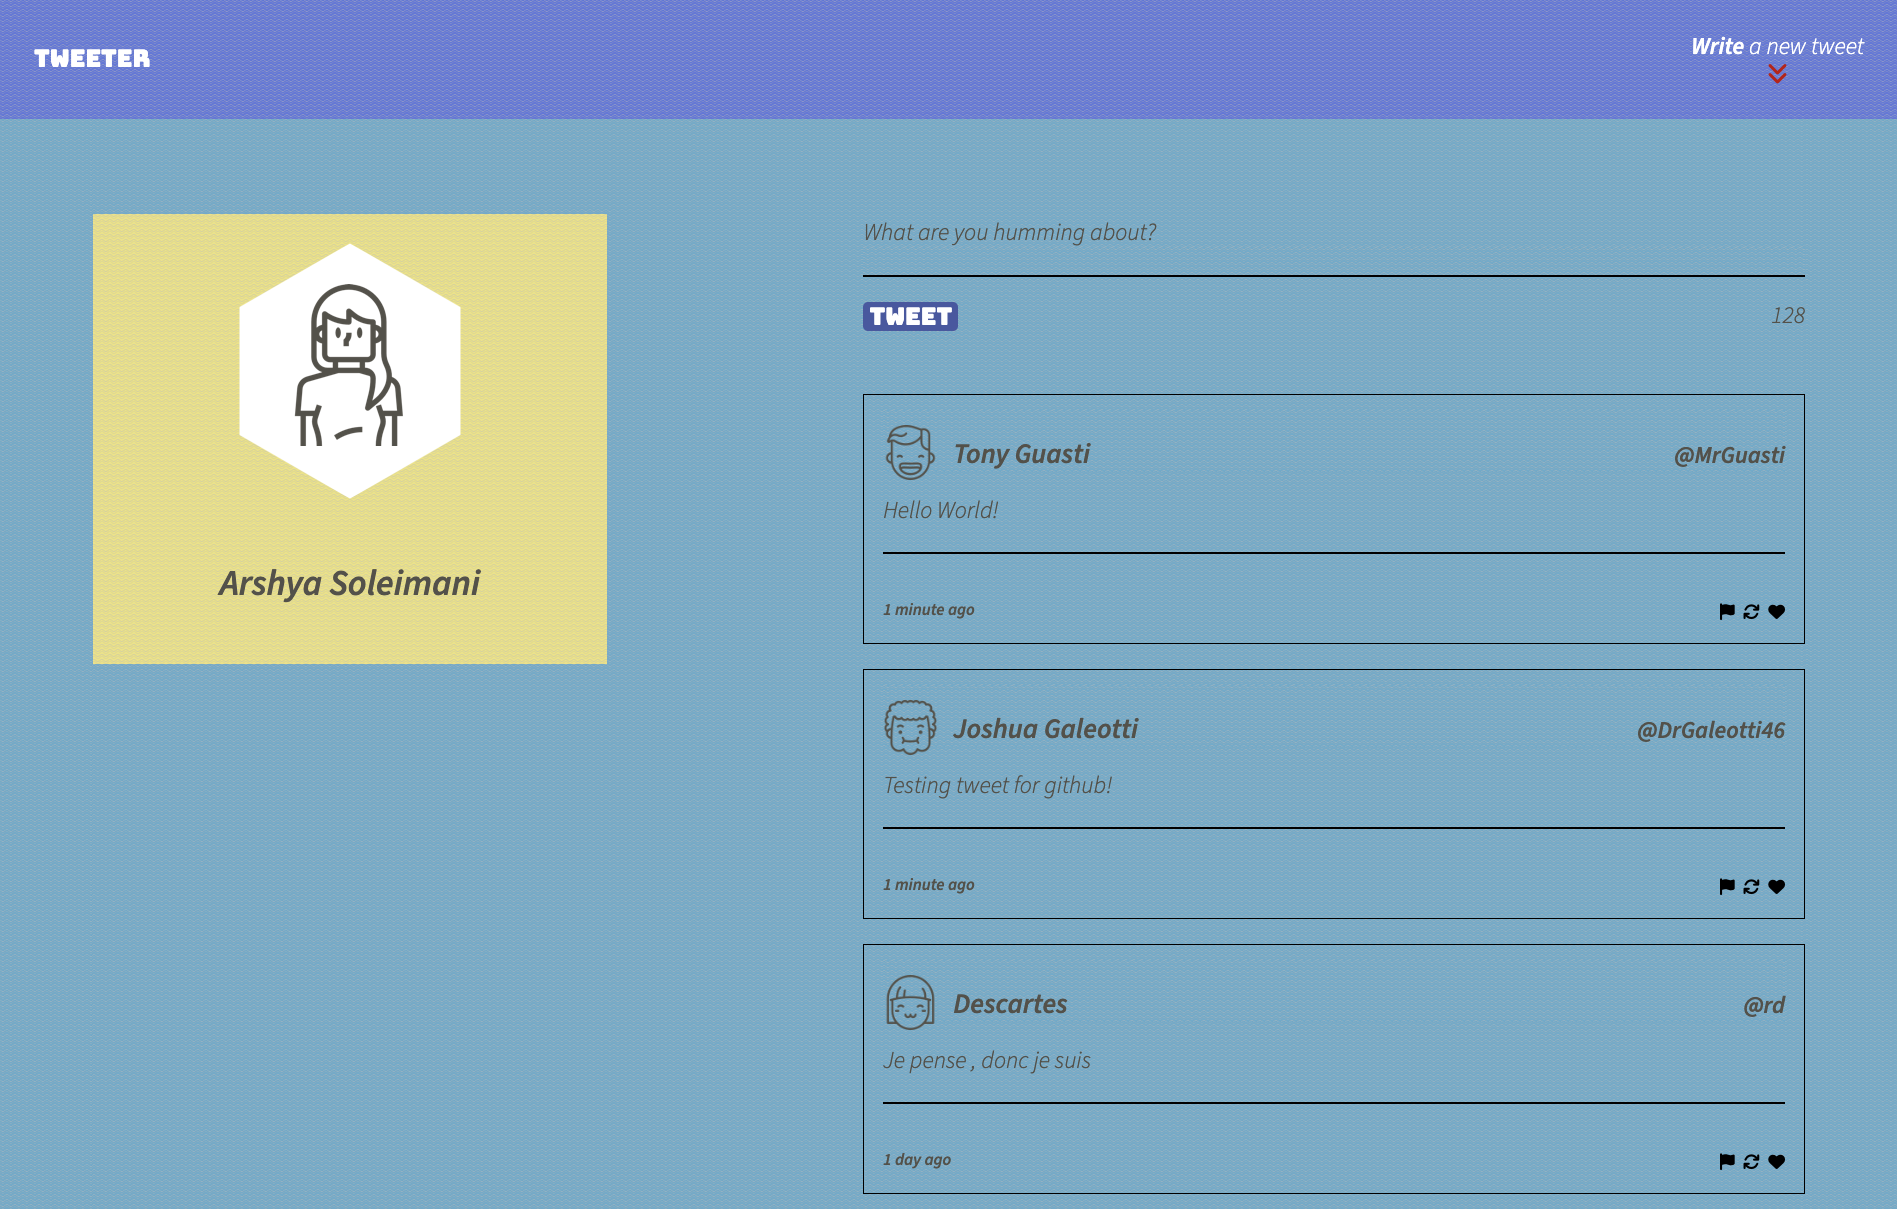
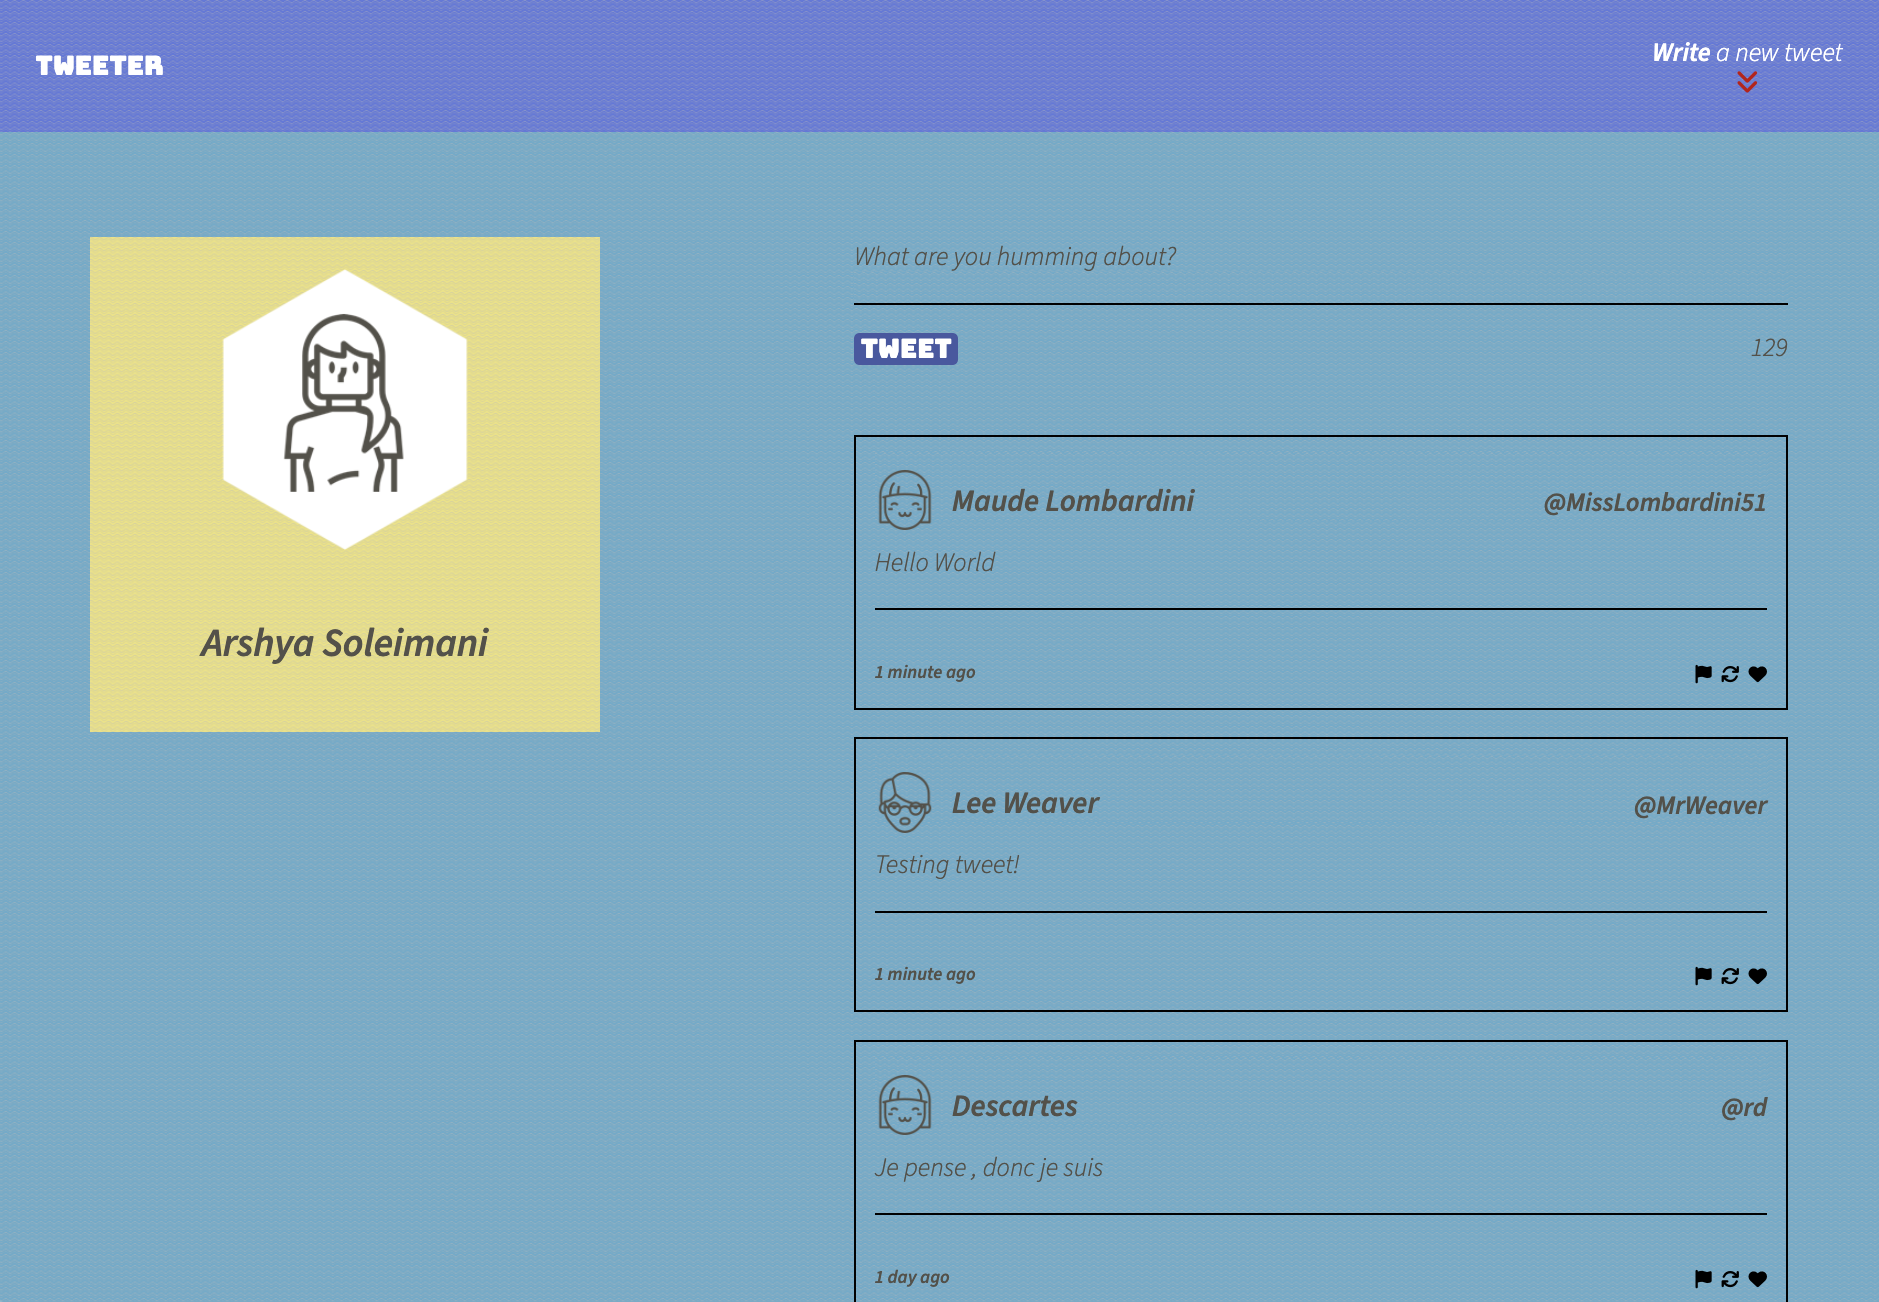
updated screenshots

diff --git a/public/styles/tweet-made.css b/public/styles/tweet-made.css
@@ -6,7 +6,7 @@
 .tweet {
   height: 250px;
   width: 100%;
-  border: 1.5px solid black;
+  border: 2px solid black;
   display: flex;
   flex-direction: column;
   align-items: flex-start;
